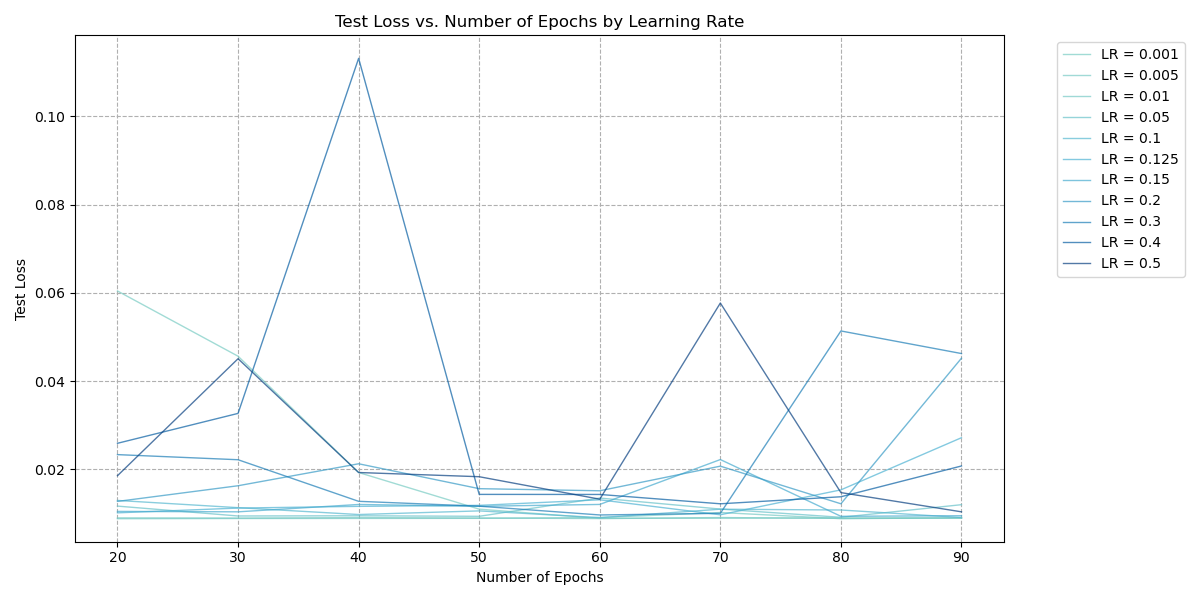
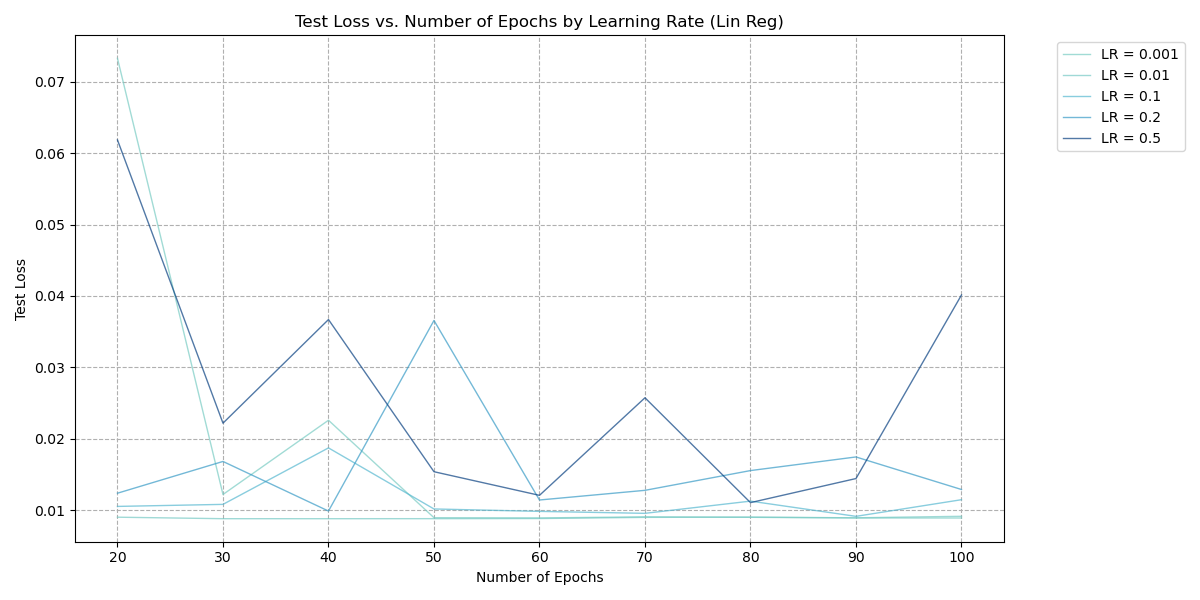
Trained both NN and Lin

diff --git a/trainerLinear.py b/trainerLinear.py
@@ -77,7 +77,7 @@ def train(csvPath, epochs, numFolds, alpha):
     finalModel, finalNormalizer = createLinearModel(xTrain.shape[1])
     finalNormalizer.adapt(xTrain)
     finalModel.compile(
-        optimizer=tf.keras.optimizers.Adam(learning_rate=0.1),
+        optimizer=tf.keras.optimizers.Adam(learning_rate=alpha),
         loss='mse',
         metrics=['mae']
     )
@@ -87,6 +87,8 @@ def train(csvPath, epochs, numFolds, alpha):
     testLoss, testMae = finalModel.evaluate(xTest, yTest, verbose=0)
     print(f"\nFinal test loss: {testLoss:.4f}")
     print(f"Final test MAE: {testMae:.4f}")
+    print(f"numEpochs: {epochs}")
+    print(f"Learning rate: {alpha}")
 
     # Save model
     # finalModel.save("tfLinearWithPreprocessing")
@@ -102,9 +104,26 @@ if __name__ == "__main__":
     numFolds = 5
     alpha = 0.1
 
+    alphas = [0.001,0.01,0.1,0.2,0.5]
+
     #   Implement nested loop that goes through and tests each combination
     #   of hyperparameters to find optimal
-    trainedModel = train('Data/commonCleaned.csv', epochs, numFolds, alpha)
+    results = []
+
+    for e in range(10, 110, 10):
+        for a in alphas:
+            finalModel, testLoss, testMae = train('Data/commonCleaned.csv', e, numFolds, a)
+            # Append the results to the list
+            results.append({'numEpochs': e, 'learningRate': a, 'testLoss': testLoss, 'testMae': testMae})
+
+    # Convert the list to a DataFrame
+    resultsDF = pd.DataFrame(results)
+
+    # Save the DataFrame to a CSV file with an index
+    resultsDF.to_csv('Training Evaluation/trainingResultsLinear.csv', index=False)
+
+
+    # trainedModel = train('Data/commonCleaned.csv', epochs, numFolds, alpha)
     
     # Example prediction
     # sampleInput = np.array([[0.8, 0.8, 0.8]], dtype=np.float32)

diff --git a/lossGraph.py b/lossGraph.py
@@ -4,7 +4,7 @@ import matplotlib.colors as mcolors
 import numpy as np
 
 # Load the data
-df = pd.read_csv('trainingResultsLinear.csv')
+df = pd.read_csv('Training Evaluation/trainingResultsLinear.csv')
 
 df = df[df['numEpochs'] >= 20]
 
@@ -40,7 +40,7 @@ for lr, group in groups:
 # Customize the plot
 ax.set_xlabel('Number of Epochs')
 ax.set_ylabel('Test Loss')
-ax.set_title('Test Loss vs. Number of Epochs by Learning Rate (DNN)')
+ax.set_title('Test Loss vs. Number of Epochs by Learning Rate (Lin Reg)')
 ax.legend(bbox_to_anchor=(1.05, 1), loc='upper left')  # Legend outside the plot
 ax.grid(True, linestyle='--')
 

diff --git a/trainerDNN.py b/trainerDNN.py
@@ -122,7 +122,7 @@ if __name__ == "__main__":
     resultsDF = pd.DataFrame(results)
 
     # Save the DataFrame to a CSV file with an index
-    resultsDF.to_csv('training_results_DNN.csv', index=False)
+    resultsDF.to_csv('Training Evaluation/training_results_DNN.csv', index=False)
 
 
     # trainedModel = train('Data/commonCleaned.csv', epochs, numFolds, alpha)
